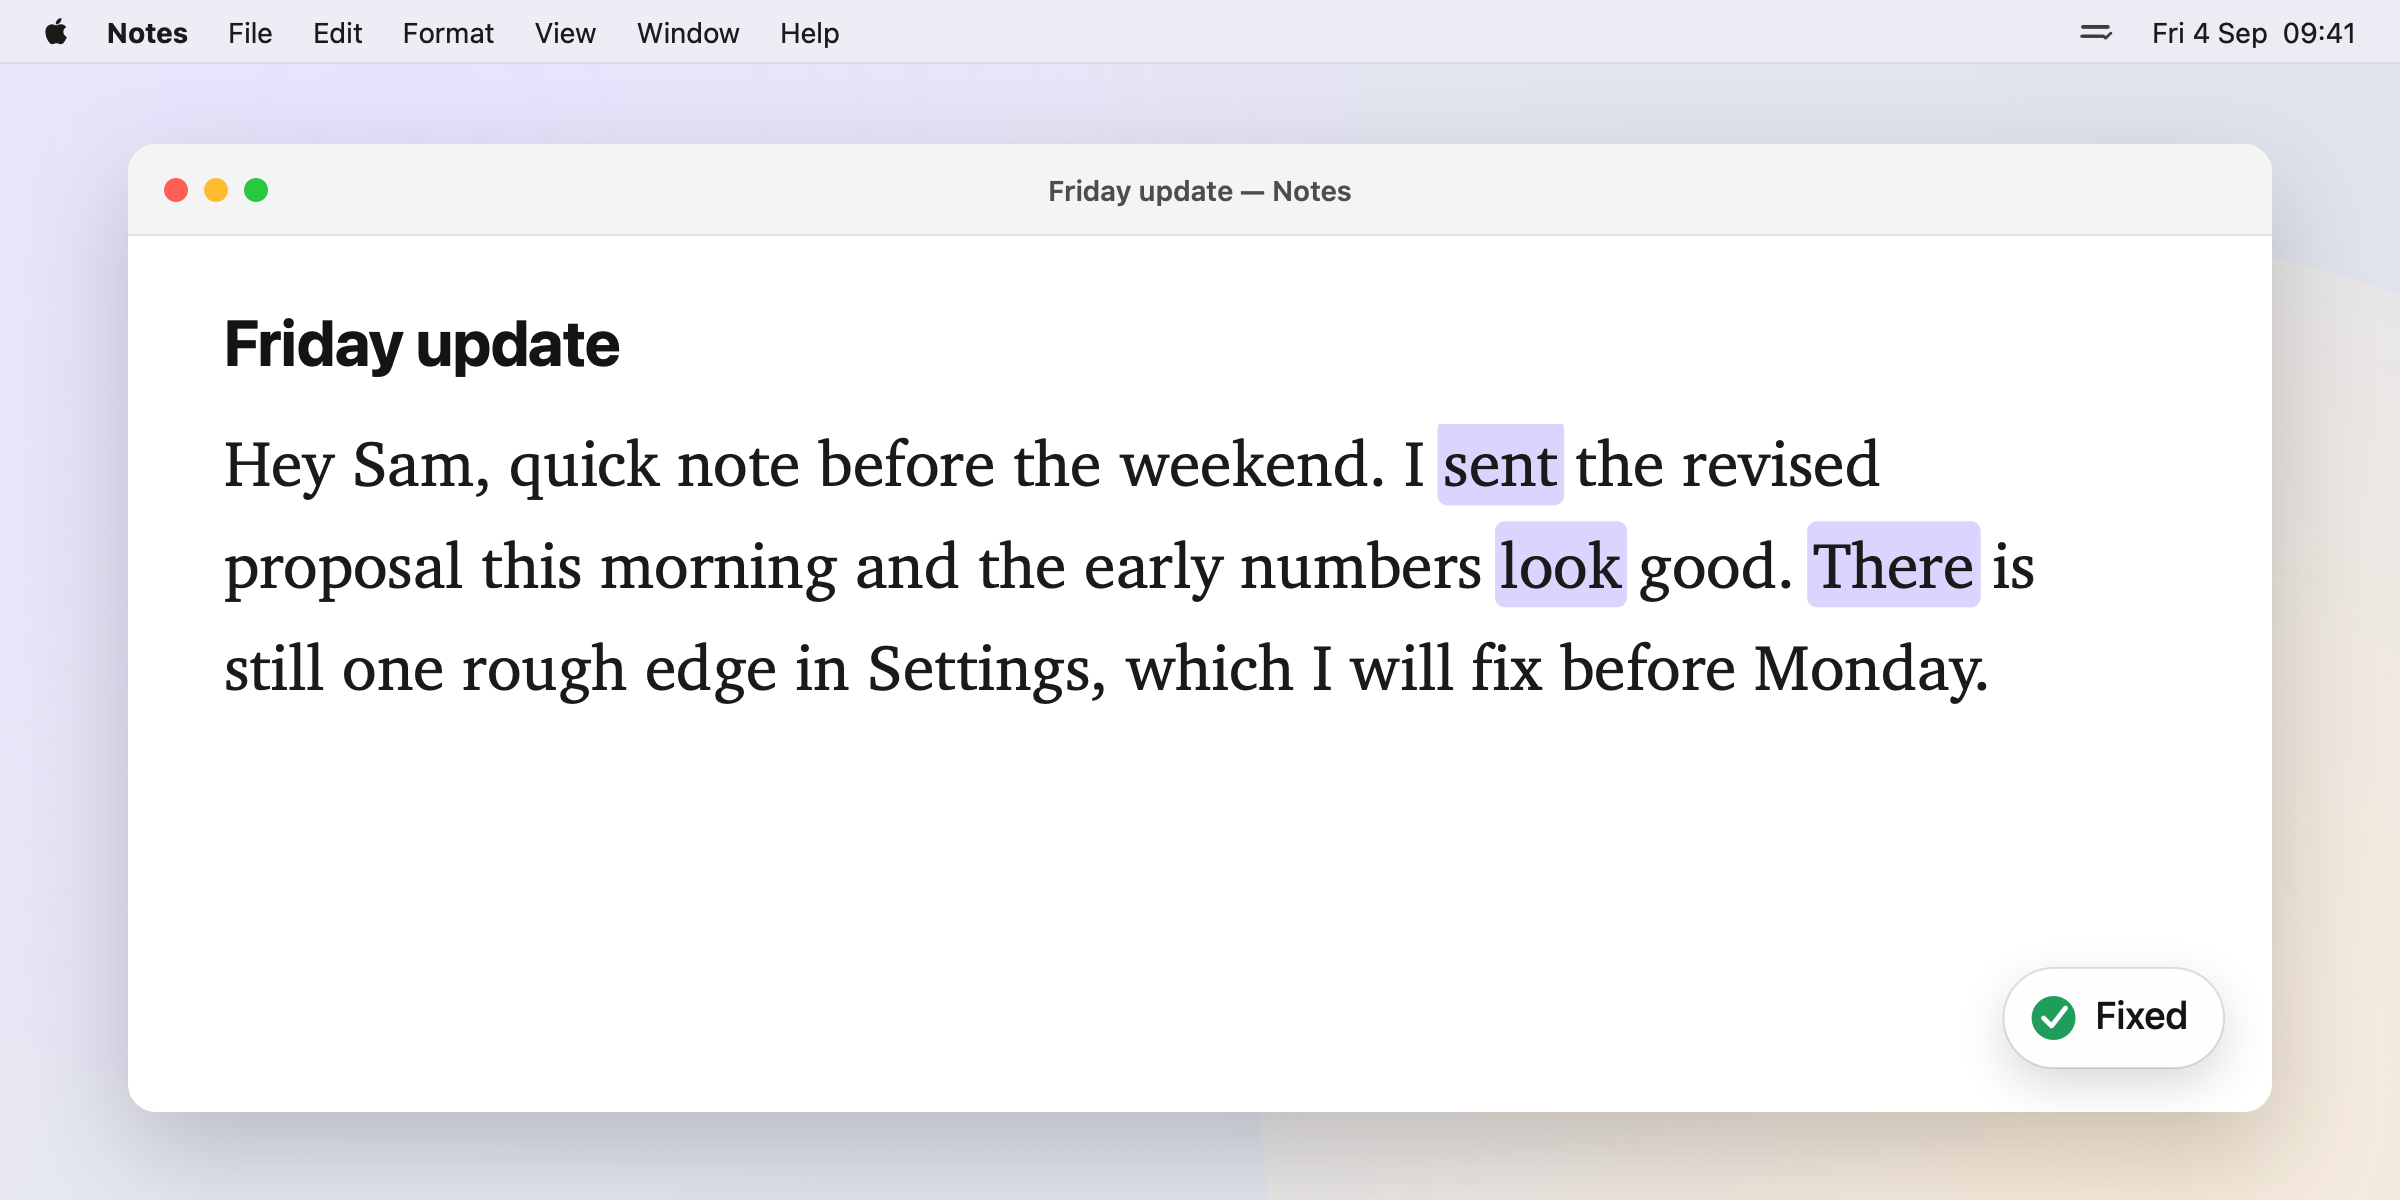
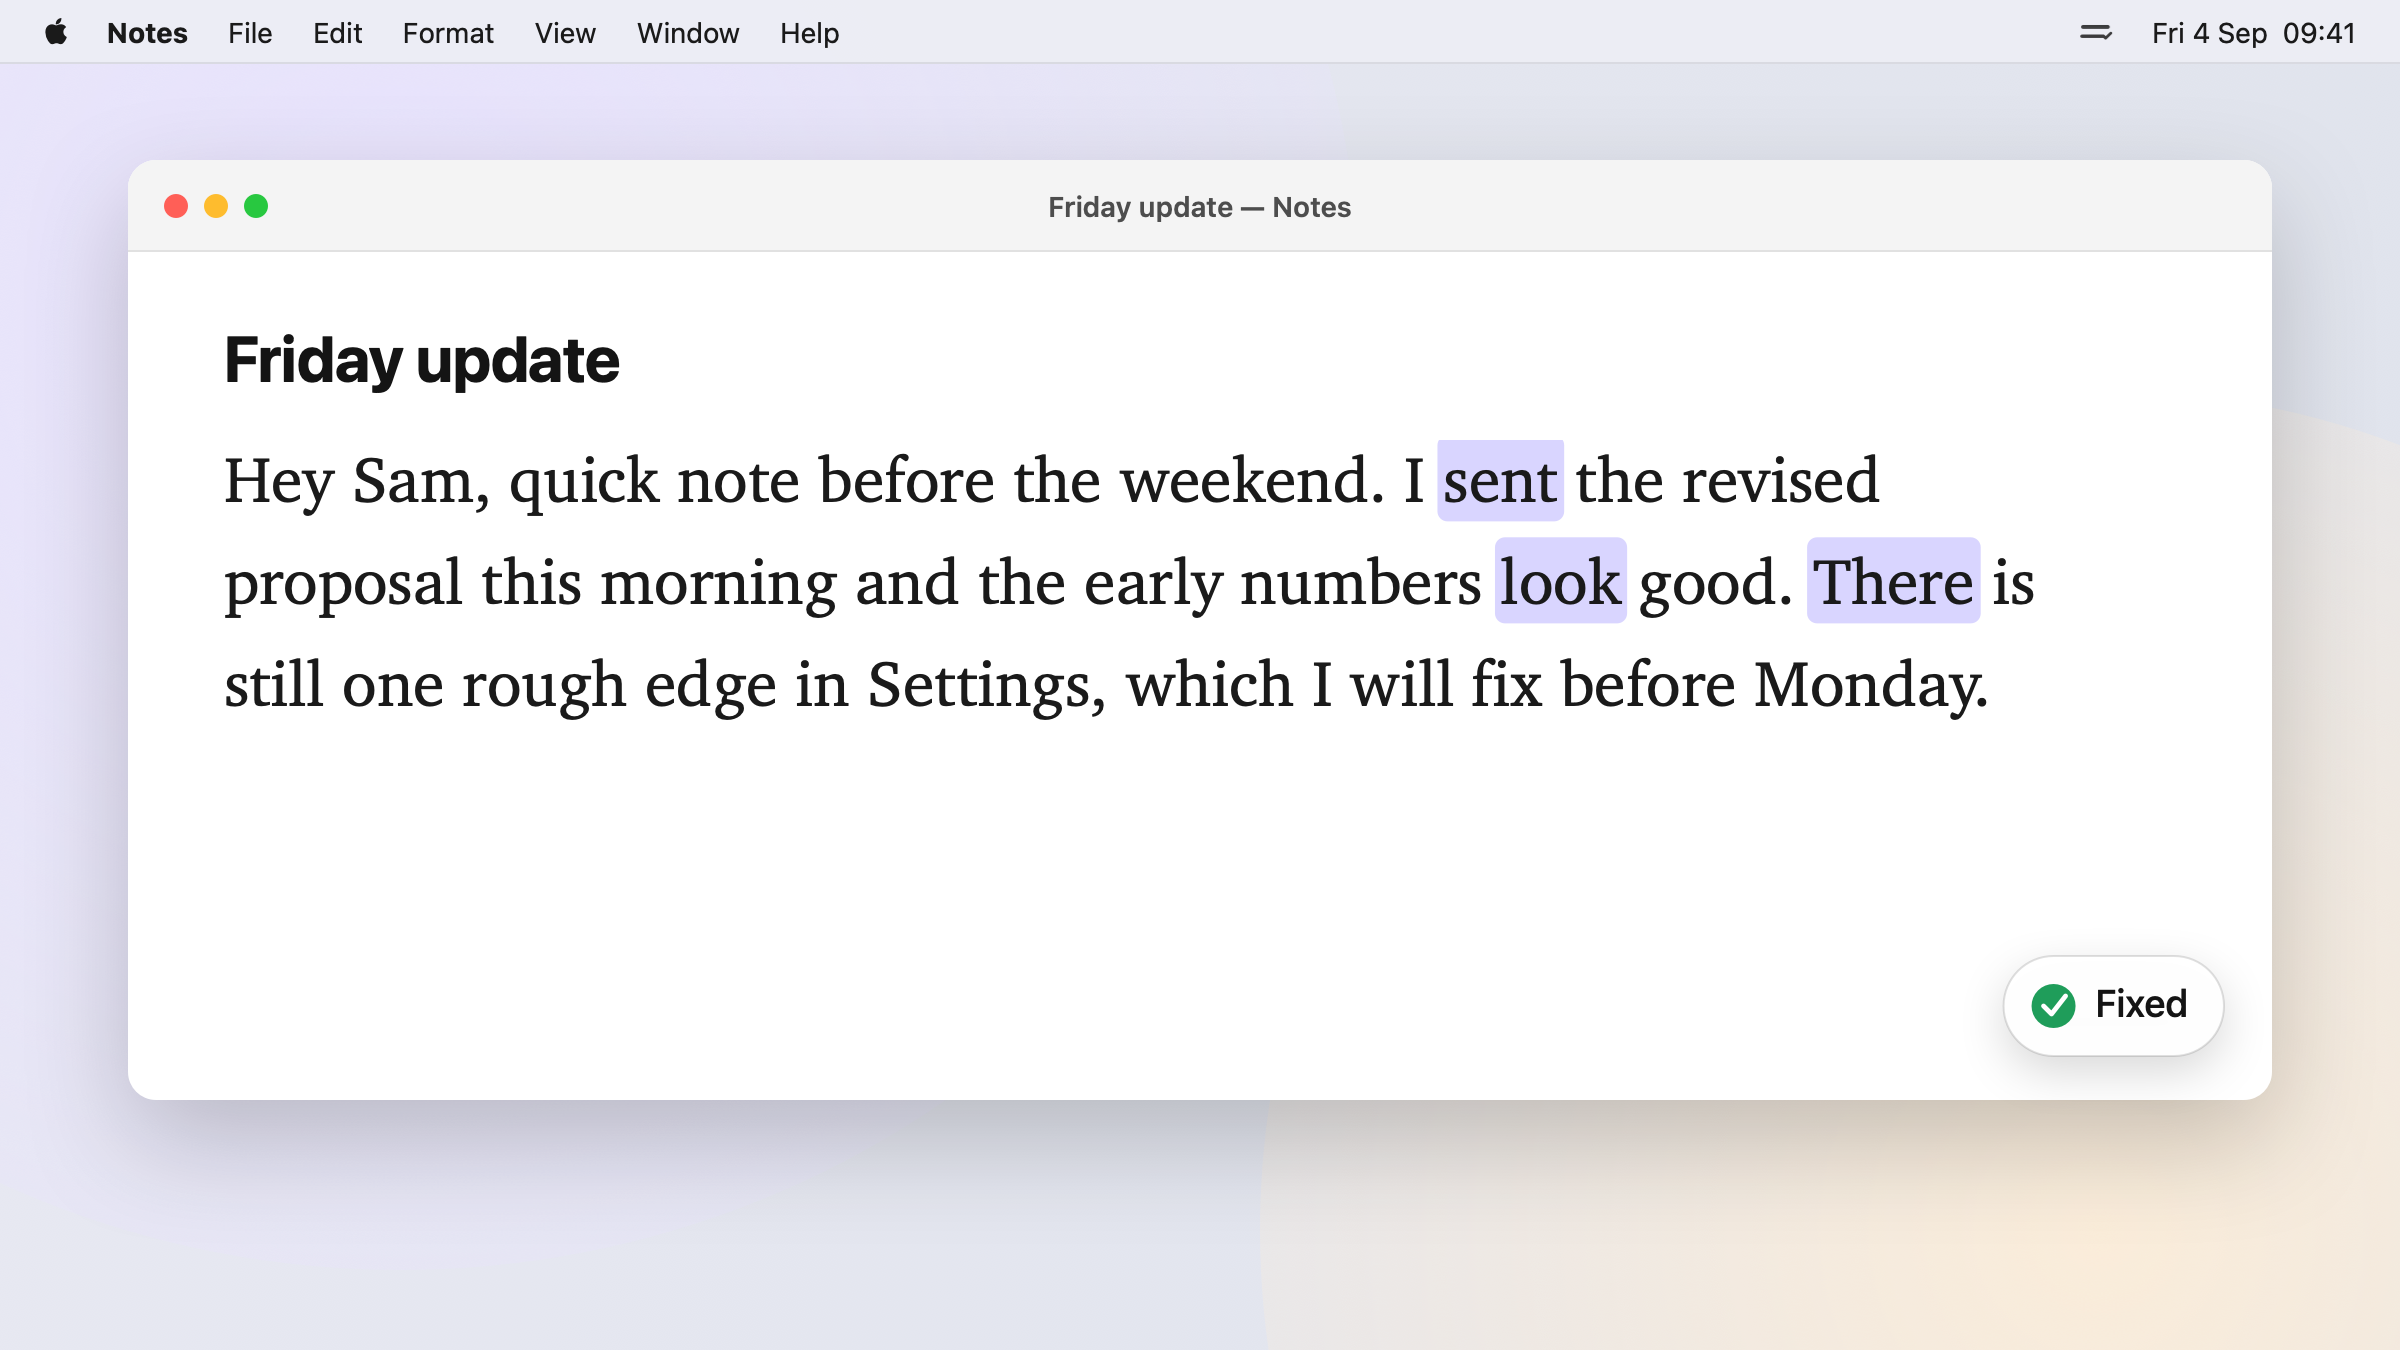
Keep project images at 16:9 so they are never cropped

diff --git a/src/components/ProjectContainer.tsx b/src/components/ProjectContainer.tsx
@@ -39,7 +39,7 @@ const ProjectContainer = () => {
                     href={redirectLink}
                     target="_blank"
                     rel="noopener noreferrer"
-                    className="relative block h-[200px] md:h-56 overflow-hidden bg-background rounded-lg cursor-pointer border border-zinc-100 dark:border-zinc-800"
+                    className="relative block aspect-video overflow-hidden bg-background rounded-lg cursor-pointer border border-zinc-100 dark:border-zinc-800"
                   >
                     <Image
                       src={project.image}
